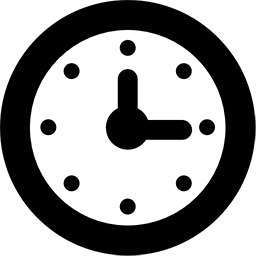
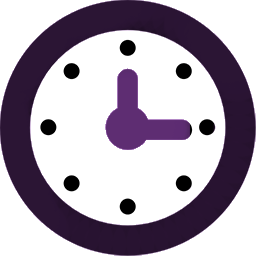
Added cleaner,hourglass,star texture

diff --git a/Triangle-madness/android/src/com/mabeproductions/trianglemadness/GameRunner.java b/Triangle-madness/android/src/com/mabeproductions/trianglemadness/GameRunner.java
@@ -58,12 +58,28 @@ public class GameRunner extends Game{
 		
 		assets.load("Sounds/Backtrack.wav", Sound.class);
 		
+		assets.load("Level2/cleaner_winter.png", Texture.class);
+		assets.load("Level3/cleaner_hell.png", Texture.class);
+		assets.load("Level4/cleaner_underwater.png", Texture.class);
+		assets.load("Level5/cleaner_Jungle.png", Texture.class);
+		assets.load("Level6/cleaner_desert.png", Texture.class);
+		
+		assets.load("Level2/multiplier_winter.png", Texture.class);
+		assets.load("Level3/multiplier_hell.png", Texture.class);
+		assets.load("Level4/multiplier_underwater.png", Texture.class);
+		assets.load("Level5/multiplier_Jungle.png", Texture.class);
+		assets.load("Level6/multiplier_desert.png", Texture.class);
+		
+		
+		
+		
 		//HourGlass
 		assets.load("clock.png", Texture.class);
 		assets.load("cleaner.png", Texture.class);
 		assets.load("multiplier.png", Texture.class);
-		
 		assets.load("Textures/defaultBubble.png", Texture.class);
+		
+		assets.load("Level2/clock_winter.png", Texture.class);
 		assets.load("Level2/FrostLevelChar.png", Texture.class);
 		assets.load("Level2/FrostLevelEnemy.png", Texture.class);
 		assets.load("Level2/avoidness.png", Texture.class);
@@ -82,13 +98,17 @@ public class GameRunner extends Game{
 		assets.load("Level3/FireEnemy.png", Texture.class);
 		assets.load("Level3/AvoidnessLava.png", Texture.class);
 		assets.load("Level3/fireCharacter.png", Texture.class);
+		assets.load("Level3/clock_hell.png", Texture.class);
 		
 		//LEVEL 4
 		assets.load("Level4/wateBackground.png", Texture.class);
 		assets.load("Level4/wateEnemy.png", Texture.class);
 		assets.load("Level4/waterBubble.png", Texture.class);
+		assets.load("Level4/clock_underwater.png", Texture.class);
 		
+		assets.load("Level5/clock_Jungle.png", Texture.class);
 		
+		assets.load("Level6/clock_desert.png", Texture.class);
 		
 		
 		assets.load("Sounds/dzinkt.wav", Sound.class);

diff --git a/Triangle-madness/android/src/com/mabeproductions/trianglemadness/Multiplier.java b/Triangle-madness/android/src/com/mabeproductions/trianglemadness/Multiplier.java
@@ -24,10 +24,36 @@ public class Multiplier {
 	private static Sound sound;
 	
 	public Multiplier(float x, int y, float speed, Texture texture){
+		
+switch (GameSc.Level) {
+		
+		case 1:
+			this.texture = texture;
+			break;
+		case 2:
+			this.texture = GameRunner.assets.get("Level2/multiplier_winter.png");
+			break;
+		case 3:
+			this.texture = GameRunner.assets.get("Level3/multiplier_hell.png");
+			break;
+		case 4:
+			this.texture = GameRunner.assets.get("Level4/multiplier_underwater.png");
+			break;
+		case 5:
+			this.texture = GameRunner.assets.get("Level5/multiplier_Jungle.png");
+			break;
+		case 6:
+			this.texture = GameRunner.assets.get("Level6/multiplier_desert.png");
+			break;
+		default:
+			break;
+			
+		}
+		
 		this.x = x;
 		this.y = y;
 		this.speed= speed;
-		this.texture=texture;
+		//this.texture=texture;
 		sound = GameRunner.assets.get("Sounds/sparkle.wav");
 		
         multiBounds = new Rectangle(x, y, multiSize, multiSize);

diff --git a/Triangle-madness/android/src/com/mabeproductions/trianglemadness/Cleaner.java b/Triangle-madness/android/src/com/mabeproductions/trianglemadness/Cleaner.java
@@ -24,10 +24,36 @@ public class Cleaner {
 	private static Sound sound;
 	
 	public Cleaner(float x, int y, float speed, Texture texture){
+		
+switch (GameSc.Level) {
+		
+		case 1:
+			this.texture = texture;
+			break;
+		case 2:
+			this.texture = GameRunner.assets.get("Level2/cleaner_winter.png");
+			break;
+		case 3:
+			this.texture = GameRunner.assets.get("Level3/cleaner_hell.png");
+			break;
+		case 4:
+			this.texture = GameRunner.assets.get("Level4/cleaner_underwater.png");
+			break;
+		case 5:
+			this.texture = GameRunner.assets.get("Level5/cleaner_Jungle.png");
+			break;
+		case 6:
+			this.texture = GameRunner.assets.get("Level6/cleaner_desert.png");
+			break;
+		default:
+			break;
+			
+		}
+		
 		this.x = x;
 		this.y = y;
 		this.speed= speed;
-		this.texture=texture;
+		//this.texture=texture;
 		sound = GameRunner.assets.get("Sounds/Backtrack.wav");
 		
         cleanerBounds = new Rectangle(x, y, CleanGlassSize, CleanGlassSize);

diff --git a/Triangle-madness/android/src/com/mabeproductions/trianglemadness/Hourglass.java b/Triangle-madness/android/src/com/mabeproductions/trianglemadness/Hourglass.java
@@ -24,10 +24,35 @@ public class Hourglass {
 	private static Sound sound;
 	
 	public Hourglass(float x, int y, float speed, Texture texture){
+		
+switch (GameSc.Level) {
+		
+		case 1:
+			this.texture = texture;
+			break;
+		case 2:
+			this.texture = GameRunner.assets.get("Level2/clock_winter.png");
+			break;
+		case 3:
+			this.texture = GameRunner.assets.get("Level3/clock_hell.png");
+			break;
+		case 4:
+			this.texture = GameRunner.assets.get("Level4/clock_underwater.png");
+			break;
+		case 5:
+			this.texture = GameRunner.assets.get("Level5/clock_Jungle.png");
+			break;
+		case 6:
+			this.texture = GameRunner.assets.get("Level6/clock_desert.png");
+			break;
+		default:
+			break;
+			
+		}
+		
 		this.x = x;
 		this.y = y;
 		this.speed= speed;
-		this.texture=texture;
 		
 		sound = GameRunner.assets.get("Sounds/FreezeTime.wav");
 		hourBounds = new Rectangle(x, y, HourGlassSize, HourGlassSize);

diff --git a/Triangle-madness/android/src/com/mabeproductions/trianglemadness/GameSc.java b/Triangle-madness/android/src/com/mabeproductions/trianglemadness/GameSc.java
@@ -749,7 +749,7 @@ public class GameSc implements Screen {
 		coins.clear();
 		hourglasess.clear();
 		rocketList.clear();
-
+		multiplierList.clear();
 		Preferences test = Gdx.app.getPreferences("Stats");
 
 		try {
